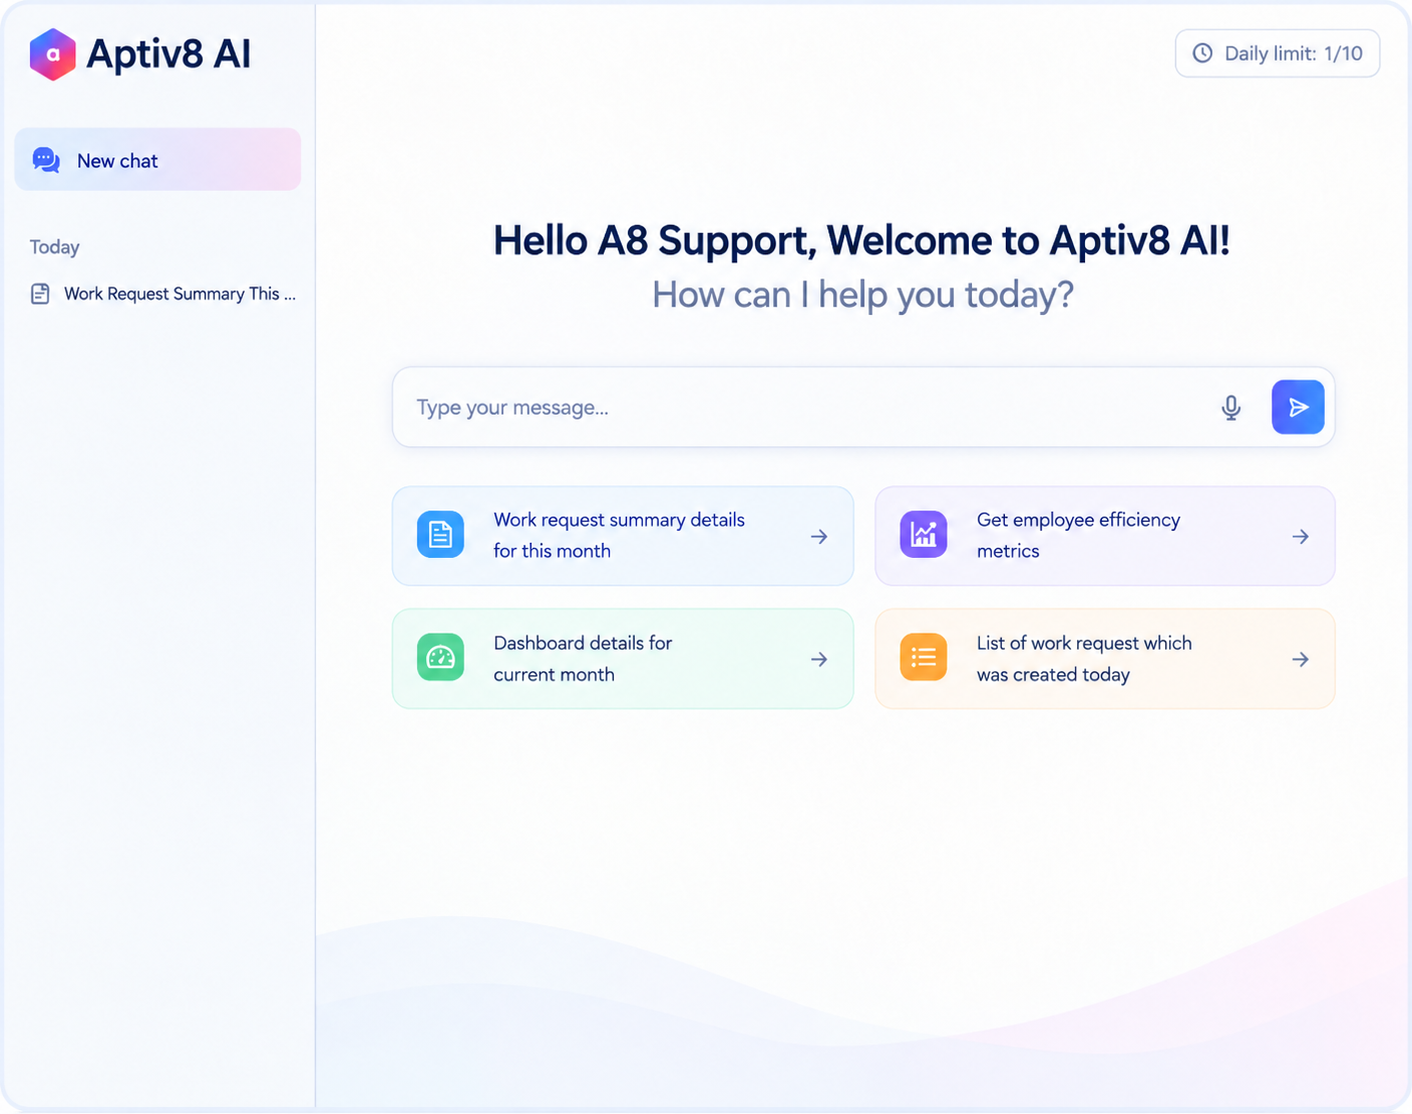
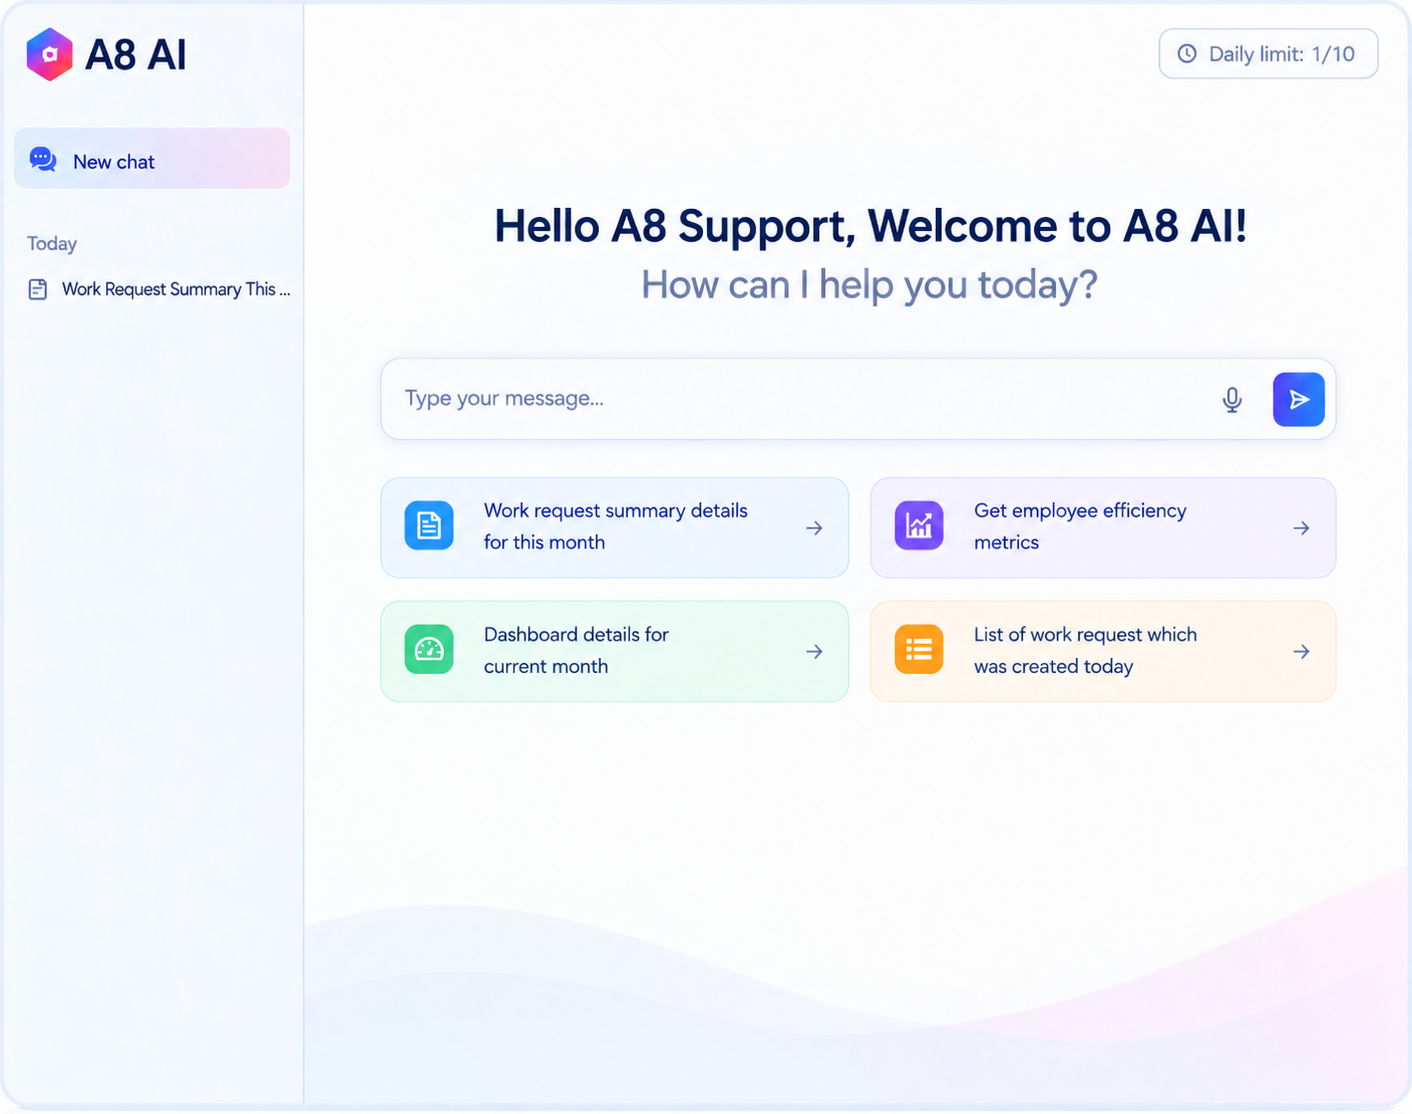
cmms page aptiv8 to a8

diff --git a/src/pages/A8CmmsPage.jsx b/src/pages/A8CmmsPage.jsx
@@ -43,8 +43,8 @@ export default function A8CmmsPage() {
       a: "CMMS (Computerized Maintenance Management System) and ERP (Enterprise Resource Planning) are distinct systems. However, CMMS can be a module within an ERP or integrated. While ERP manages core business processes, CMMS focuses on maintenance management tasks. Integrating CMMS with ERP allows organizations to streamline operations, share data seamlessly, and optimize asset and resource management across departments."
     },
     {
-      q: "Is Aptiv8 CMMS software cloud based or do I need to install it on premises?",
-      a: "Aptiv8 CMMS software is cloud-based, allowing users to access it from anywhere with an internet connection. This eliminates the need for on-premises installation and provides flexibility, scalability, and real-time data access. With cloud-based solutions like Aptiv8, organizations can reduce IT overhead, ensure automatic updates, and benefit from enhanced security features."
+      q: "Is A8 CMMS software cloud based or do I need to install it on premises?",
+      a: "A8 CMMS software is cloud-based, allowing users to access it from anywhere with an internet connection. This eliminates the need for on-premises installation and provides flexibility, scalability, and real-time data access. With cloud-based solutions like A8, organizations can reduce IT overhead, ensure automatic updates, and benefit from enhanced security features."
     },
     {
       q: "How does the mobile CMMS work and what features does it offer?",
@@ -59,16 +59,16 @@ export default function A8CmmsPage() {
       a: "Our CMMS prioritizes data security. We employ advanced encryption techniques to safeguard your data during transmission and storage. Regular security audits, firewall protections, and secure hosting environments further enhance data safety. Additionally, we adhere to global data protection regulations, ensuring your information remains confidential and secure at all times. Your data's integrity and privacy are our top concerns."
     },
     {
-      q: "How does Aptiv8 CMMS software assist in preventive maintenance scheduling?",
-      a: "Aptiv8 CMMS software streamlines preventive maintenance by allowing users to set routine schedules for equipment checks and services. It sends timely alerts and reminders, ensuring no task is missed. By logging equipment history and performance data, the software aids in predicting potential issues, reducing downtime, and prolonging equipment life. This systematic approach ensures optimal equipment performance and reduces costly breakdowns."
+      q: "How does A8 CMMS software assist in preventive maintenance scheduling?",
+      a: "A8 CMMS software streamlines preventive maintenance by allowing users to set routine schedules for equipment checks and services. It sends timely alerts and reminders, ensuring no task is missed. By logging equipment history and performance data, the software aids in predicting potential issues, reducing downtime, and prolonging equipment life. This systematic approach ensures optimal equipment performance and reduces costly breakdowns."
     },
     {
       q: "Can I track and manage inventory and spare parts using the CMMS?",
-      a: "Yes, with Aptiv8 CMMS, you can efficiently track and manage inventory and spare parts. The software provides real-time visibility into stock levels, helping prevent shortages or overstocking. It logs usage patterns, facilitates reorder triggers, and maintains a detailed record of parts used in maintenance tasks. This centralized system ensures the timely availability of essential parts, optimizing maintenance operations."
+      a: "Yes, with A8 CMMS, you can efficiently track and manage inventory and spare parts. The software provides real-time visibility into stock levels, helping prevent shortages or overstocking. It logs usage patterns, facilitates reorder triggers, and maintains a detailed record of parts used in maintenance tasks. This centralized system ensures the timely availability of essential parts, optimizing maintenance operations."
     },
     {
       q: "How often do you release updates and how are they implemented?",
-      a: "Aptiv8 regularly releases updates to enhance functionality and address user feedback. Updates are rolled out periodically, ensuring the software remains up-to-date with industry standards. Implementation is seamless, with most updates being cloud-based, requiring no manual intervention. Users are notified in advance, and comprehensive support is provided to ensure a smooth transition and minimal disruption to operations."
+      a: "A8 regularly releases updates to enhance functionality and address user feedback. Updates are rolled out periodically, ensuring the software remains up-to-date with industry standards. Implementation is seamless, with most updates being cloud-based, requiring no manual intervention. Users are notified in advance, and comprehensive support is provided to ensure a smooth transition and minimal disruption to operations."
     },
     {
       q: "How does the CMMS software help in reducing equipment downtime?",
@@ -83,7 +83,7 @@ export default function A8CmmsPage() {
       shortTitle: 'Maintenance Management',
       icon: Wrench,
       badge: 'Proactive Maintenance',
-      description: 'Aptiv8 CMMS elevates maintenance management to new heights, streamlining tasks and ensuring equipment longevity. Our platform offers predictive maintenance, real-time monitoring, and efficient scheduling. Reduce downtimes, enhance productivity, and ensure safety with our advanced tools. With Aptiv8, maintenance becomes proactive, not reactive, driving operational excellence and maximizing ROI.',
+      description: 'A8 CMMS elevates maintenance management to new heights, streamlining tasks and ensuring equipment longevity. Our platform offers predictive maintenance, real-time monitoring, and efficient scheduling. Reduce downtimes, enhance productivity, and ensure safety with our advanced tools. With A8, maintenance becomes proactive, not reactive, driving operational excellence and maximizing ROI.',
       image: 'https://images.unsplash.com/photo-1621905252507-b35492cc74b4?auto=format&fit=crop&w=1200&q=80',
       imageTag: 'Predictive & Real-Time Monitoring',
       features: [
@@ -100,7 +100,7 @@ export default function A8CmmsPage() {
       shortTitle: 'Asset Management',
       icon: Layers,
       badge: 'Lifecycle Optimization',
-      description: "Aptiv8 CMMS revolutionizes asset management by offering comprehensive tracking and monitoring. Our platform ensures assets' longevity, optimizes their lifecycle, and reduces operational costs. With real-time data analytics, make informed decisions and prevent asset failures. Experience a holistic approach where assets are managed and optimized for peak performance. Trust Aptiv8 for a seamless asset management journey.",
+      description: "A8 CMMS revolutionizes asset management by offering comprehensive tracking and monitoring. Our platform ensures assets' longevity, optimizes their lifecycle, and reduces operational costs. With real-time data analytics, make informed decisions and prevent asset failures. Experience a holistic approach where assets are managed and optimized for peak performance. Trust A8 for a seamless asset management journey.",
       image: 'https://images.unsplash.com/photo-1616401784845-180882ba9ba8?auto=format&fit=crop&w=1200&q=80',
       imageTag: 'Complete Asset Lifecycle Tracking',
       features: [
@@ -117,7 +117,7 @@ export default function A8CmmsPage() {
       shortTitle: 'Facility Management',
       icon: Monitor,
       badge: 'Smart Building Operations',
-      description: "Aptiv8 CMMS revolutionizes facility management, offering a comprehensive suite to optimize building operations. Our platform provides real-time insights and automated workflows, from space utilization to energy conservation. Ensure safety, enhance comfort, and reduce operational costs with our state-of-the-art solutions. With Aptiv8, facilities are not just managed; they're transformed into efficient, sustainable, and technologically advanced spaces.",
+      description: "A8 CMMS revolutionizes facility management, offering a comprehensive suite to optimize building operations. Our platform provides real-time insights and automated workflows, from space utilization to energy conservation. Ensure safety, enhance comfort, and reduce operational costs with our state-of-the-art solutions. With A8, facilities are not just managed; they're transformed into efficient, sustainable, and technologically advanced spaces.",
       image: 'https://images.unsplash.com/photo-1577495508048-b635879837f1?auto=format&fit=crop&w=1200&q=80',
       imageTag: 'Automated Facility Operations',
       features: [
@@ -134,7 +134,7 @@ export default function A8CmmsPage() {
       shortTitle: 'Field Service Management',
       icon: Navigation,
       badge: 'On-Demand Service Excellence',
-      description: 'Aptiv8 CMMS streamlines field service operations, ensuring timely and efficient service delivery. Our platform offers real-time tracking, automated scheduling, and detailed reporting. Technicians receive instant updates, reducing response times and enhancing customer satisfaction. Integrated with advanced analytics, Aptiv8 optimizes routes, manages resources, and ensures top-notch service quality. Elevate your field services with precision and reliability through Aptiv8.',
+      description: 'A8 CMMS streamlines field service operations, ensuring timely and efficient service delivery. Our platform offers real-time tracking, automated scheduling, and detailed reporting. Technicians receive instant updates, reducing response times and enhancing customer satisfaction. Integrated with advanced analytics, A8 optimizes routes, manages resources, and ensures top-notch service quality. Elevate your field services with precision and reliability through A8.',
       image: 'https://images.unsplash.com/photo-1581092334651-ddf26d9a09d0?auto=format&fit=crop&w=1200&q=80',
       imageTag: 'Real-Time Field Dispatch & Analytics',
       features: [
@@ -186,7 +186,7 @@ export default function A8CmmsPage() {
             className="text-4xl sm:text-5xl md:text-7xl font-bold text-white tracking-tight leading-[1.1] mb-6"
             style={{ fontFamily: "'Times New Roman', Times, serif" }}
           >
-            Aptiv8 <span className="text-[#e30613]">CMMS</span>
+            A8 <span className="text-[#e30613]">CMMS</span>
           </motion.h1>
 
           {/* Centered description text */}
@@ -810,7 +810,7 @@ export default function A8CmmsPage() {
                   </h2>
 
                   <p className="text-sm sm:text-base text-slate-600 dark:text-slate-300 leading-relaxed font-sans max-w-2xl mx-auto">
-                    Get answers to common questions about Aptiv8 CMMS features, cloud architecture, mobile apps, integrations, and deployment.
+                    Get answers to common questions about A8 CMMS features, cloud architecture, mobile apps, integrations, and deployment.
                   </p>
                 </div>
               </Reveal3D>
@@ -906,13 +906,13 @@ export default function A8CmmsPage() {
 
                   <Reveal3D direction="up" delay={0.15}>
                     <p className="text-xs font-mono font-bold tracking-widest text-slate-500 dark:text-slate-400 uppercase">
-                      ADVANCED MAINTENANCE EXCELLENCE WITH Aptiv8
+                      ADVANCED MAINTENANCE EXCELLENCE WITH A8
                     </p>
                   </Reveal3D>
 
                   <Reveal3D direction="up" delay={0.2}>
                     <p className="text-sm sm:text-base text-slate-600 dark:text-slate-300 leading-relaxed font-sans font-medium text-justify">
-                      Aptiv8 CMMS is the leading all-in-one preventive maintenance management, helping organizations achieve greater asset uptime, reduce downtime, and extend equipment life. With a focus on intuitive design, real-time tracking, and powerful analytics, Aptiv8 empowers businesses in Singapore and beyond to maintain operational excellence across every facility.
+                      A8 CMMS is the leading all-in-one preventive maintenance management, helping organizations achieve greater asset uptime, reduce downtime, and extend equipment life. With a focus on intuitive design, real-time tracking, and powerful analytics, A8 empowers businesses in Singapore and beyond to maintain operational excellence across every facility.
                     </p>
                   </Reveal3D>
 
@@ -1001,7 +1001,7 @@ export default function A8CmmsPage() {
                         <div className="flex items-center gap-2">
                           <span className="px-3 py-1 rounded-full bg-[#e30613] text-white text-xs font-bold font-mono flex items-center gap-1.5">
                             <span className="w-2 h-2 rounded-full bg-white animate-pulse" />
-                            Aptiv8
+                            A8
                           </span>
                           <span className="px-3 py-1 rounded-full bg-red-100 text-[#e30613] text-[11px] font-bold">
                             Work Orders
@@ -1086,7 +1086,7 @@ export default function A8CmmsPage() {
 
 
 
-          {/* SECTION 2: HOW DOES Aptiv8 CMMS SOFTWARE SIMPLIFY YOUR MAINTENANCE OPERATIONS? */}
+          {/* SECTION 2: HOW DOES A8 CMMS SOFTWARE SIMPLIFY YOUR MAINTENANCE OPERATIONS? */}
           <section className="py-24 px-4 sm:px-6 lg:px-8 bg-white dark:bg-bg-primary border-b border-border-color relative">
             <div className="max-w-7xl mx-auto space-y-12">
 
@@ -1099,13 +1099,13 @@ export default function A8CmmsPage() {
                   </div>
 
                   <h2 className="text-3xl sm:text-5xl font-black text-slate-900 dark:text-white font-display tracking-tight leading-tight">
-                    How Does Aptiv8 CMMS Software Simplify Your Maintenance Operations?
+                    How Does A8 CMMS Software Simplify Your Maintenance Operations?
                   </h2>
 
                   <div className="w-12 h-1 bg-[#e30613] rounded-full mx-auto" />
 
                   <p className="text-sm sm:text-base text-slate-600 dark:text-slate-300 leading-relaxed font-sans ">
-                    From work order management to asset tracking, <strong className="text-slate-900 dark:text-white font-bold">Aptiv8 CMMS</strong> brings <strong className="text-slate-900 dark:text-white font-bold">everything together</strong> — helping you work smarter, reduce downtime and achieve operational excellence.
+                    From work order management to asset tracking, <strong className="text-slate-900 dark:text-white font-bold">A8 CMMS</strong> brings <strong className="text-slate-900 dark:text-white font-bold">everything together</strong> — helping you work smarter, reduce downtime and achieve operational excellence.
                   </p>
                 </div>
               </Reveal3D>
@@ -1450,7 +1450,7 @@ export default function A8CmmsPage() {
                   {/* Paragraph */}
                   <Reveal3D direction="up" delay={0.15}>
                     <p className="text-sm sm:text-base text-slate-600 dark:text-slate-300 leading-relaxed font-sans text-justify">
-                      Experience unparalleled operational efficiency with Aptiv8 Mobile CMMS. Our platform is designed for on-the-go access and ensures real-time updates, swift task management, and better communication. Whether it's the field or the office, Aptiv8 empowers teams to manage maintenance tasks seamlessly, enhancing optimal performance anytime, anywhere. Embrace the future of maintenance with Aptiv8.
+                      Experience unparalleled operational efficiency with A8 Mobile CMMS. Our platform is designed for on-the-go access and ensures real-time updates, swift task management, and better communication. Whether it's the field or the office, A8 empowers teams to manage maintenance tasks seamlessly, enhancing optimal performance anytime, anywhere. Embrace the future of maintenance with A8.
                     </p>
                   </Reveal3D>
 
@@ -1658,7 +1658,7 @@ export default function A8CmmsPage() {
             </div>
           </section>
 
-          {/* SECTION 5: BENEFITS OF Aptiv8 MOBILE CMMS SOFTWARE */}
+          {/* SECTION 5: BENEFITS OF A8 MOBILE CMMS SOFTWARE */}
           <section className="py-24 px-4 sm:px-6 lg:px-8 bg-gradient-to-b from-slate-50/80 via-purple-50/20 to-slate-50/80 dark:from-bg-secondary dark:via-bg-primary dark:to-bg-secondary border-b border-border-color relative overflow-hidden">
             {/* Background Image Overlay with Gradient Mask */}
             <div
@@ -1678,10 +1678,10 @@ export default function A8CmmsPage() {
                     <span>Strategic Advantage</span>
                   </div>
                   <h2 className="text-3xl sm:text-5xl font-black text-slate-900 dark:text-white font-display tracking-tight leading-tight">
-                    Benefits of Aptiv8 Mobile CMMS <span className="text-purple-600 dark:text-purple-400 block sm:inline">Software</span>
+                    Benefits of A8 Mobile CMMS <span className="text-purple-600 dark:text-purple-400 block sm:inline">Software</span>
                   </h2>
                   <p className="text-sm sm:text-base text-slate-600 dark:text-slate-300 leading-relaxed font-sans">
-                    Discover how Aptiv8 Mobile CMMS helps you work smarter, reduce downtime and get more value from your maintenance operations.
+                    Discover how A8 Mobile CMMS helps you work smarter, reduce downtime and get more value from your maintenance operations.
                   </p>
                 </div>
               </Reveal3D>
@@ -1734,7 +1734,7 @@ export default function A8CmmsPage() {
                         Data-Driven Decision Making
                       </h3>
                       <p className="text-xs text-slate-600 dark:text-slate-400 leading-relaxed font-sans">
-                        Harness the power of data. Aptiv8 Mobile CMMS App provides real-time analytics and insights, allowing you to make informed decisions. Data is your strategic ally, from understanding asset performance to predicting potential downtimes.
+                        Harness the power of data. A8 Mobile CMMS App provides real-time analytics and insights, allowing you to make informed decisions. Data is your strategic ally, from understanding asset performance to predicting potential downtimes.
                       </p>
                     </div>
                   </div>
@@ -1773,7 +1773,7 @@ export default function A8CmmsPage() {
                         Streamlined Workflows
                       </h3>
                       <p className="text-xs text-slate-600 dark:text-slate-400 leading-relaxed font-sans">
-                        Simplify complex maintenance procedures. Aptiv8 Mobile CMMS streamlines work order approvals, task assignments, and checklist completion, ensuring your maintenance operations run smoothly without bottlenecks.
+                        Simplify complex maintenance procedures. A8 Mobile CMMS streamlines work order approvals, task assignments, and checklist completion, ensuring your maintenance operations run smoothly without bottlenecks.
                       </p>
                     </div>
                   </div>
@@ -2412,7 +2412,7 @@ export default function A8CmmsPage() {
 
                 {/* Paragraph */}
                 <p className="text-sm sm:text-lg text-slate-300 max-w-2xl mx-auto leading-relaxed font-sans">
-                  Experience the power of Aptiv8 CMMS with integrated AI Fault Reporting, Voice AI Dispatch, Knowledge Base, and Automated Checklists.
+                  Experience the power of A8 CMMS with integrated AI Fault Reporting, Voice AI Dispatch, Knowledge Base, and Automated Checklists.
                 </p>
 
                 {/* Interactive CTA Buttons */}

diff --git a/src/pages/SmartLightingPage.jsx b/src/pages/SmartLightingPage.jsx
@@ -181,7 +181,7 @@ export default function SmartLightingPage() {
                     <img 
                       src="./slide1.png" 
                       alt="LMZ2 Sensor Diagram" 
-                      className="w-full h-72 object-cover hover:scale-105 transition-transform duration-500"
+                      className="w-full h-70 object-cover hover:scale-105 transition-transform duration-500"
                     />
                   </div>
                 </div>
